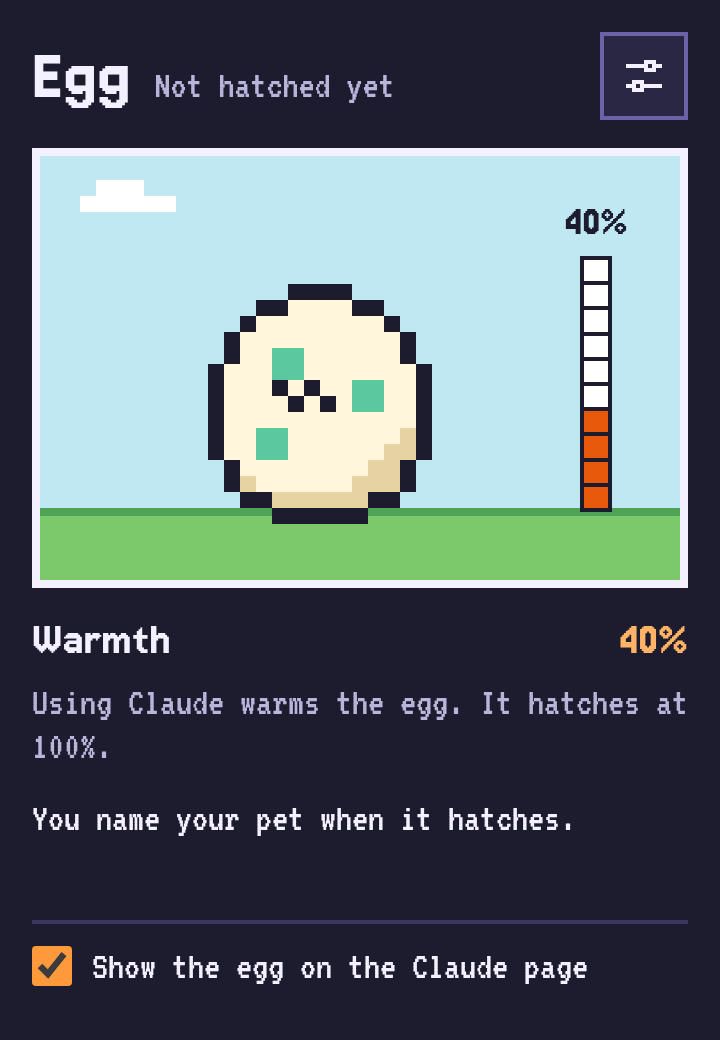
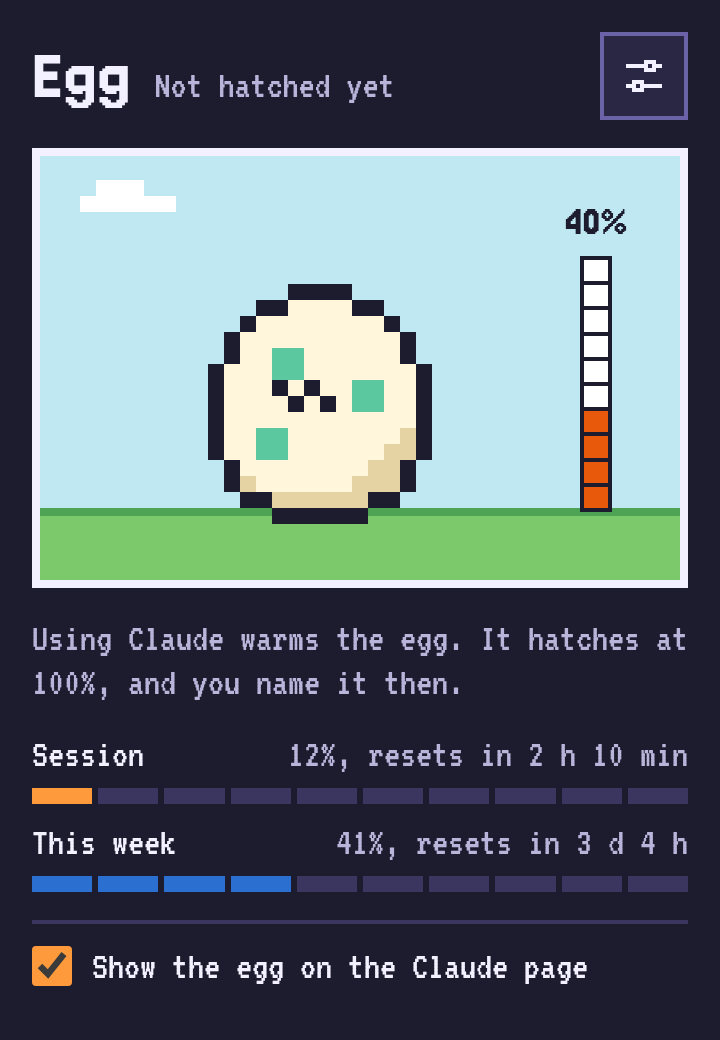
Show the session and weekly usage on the egg's popup
The warmth row repeated the thermometer, so it is now one line saying what
the thermometer measures. Below it, the session and the week each get a row
with the percent, the time until reset, and a ten-segment bar.

Changed region(s): [[0.0306, 0.5846, 0.9778, 0.8615]]

diff --git a/src/ui/PetPopup.tsx b/src/ui/PetPopup.tsx
@@ -126,7 +126,7 @@ function bodyFor(view: PetView, props: PetPopupProps, hatchFrame: HatchFrame): B
       title,
       detail,
       content: (
-        <Egg warmth={view.warmth} crack={view.crack}>
+        <Egg warmth={view.warmth} crack={view.crack} pet={pet} now={now}>
           <OverlaySwitch {...props} who="the egg" />
         </Egg>
       ),
@@ -270,16 +270,54 @@ function OverlaySwitch(props: PetPopupProps & { who: string }) {
   );
 }
 
-function Egg(props: { warmth: number; crack: EggCrack; children?: ComponentChildren }) {
-  const { warmth, crack } = props;
+/** Ten segments filled to `percent`, for the usage rows under the egg. */
+function Segments(props: { percent: number; color: string }) {
+  const filled = Math.max(0, Math.min(10, Math.round(props.percent / 10)));
+  return (
+    <div class="px-segments" aria-hidden="true" style={{ "--fill": props.color }}>
+      {Array.from({ length: 10 }, (_, index) => (
+        <i key={index} class={index < filled ? "px-on" : undefined} />
+      ))}
+    </div>
+  );
+}
+
+/** A Claude limit as the egg's popup shows it: the percent used and when it resets. */
+function UsageRow(props: { label: string; window: UsageWindow; now: Date; color: string }) {
+  const { label, window, now, color } = props;
+  const percent = Math.round(window.percent);
+  return (
+    <div class="px-usage">
+      <div class="px-row">
+        <p>{label}</p>
+        <p class="px-dim">
+          {percent}%{window.resetsAt && `, resets in ${timeLeftText(window.resetsAt, now)}`}
+        </p>
+      </div>
+      <Segments percent={percent} color={color} />
+    </div>
+  );
+}
+
+function Egg(props: {
+  warmth: number;
+  crack: EggCrack;
+  pet: PetState;
+  now: Date;
+  children?: ComponentChildren;
+}) {
+  const { warmth, crack, pet, now } = props;
   const percent = Math.round((warmth / RULES.hatchWarmth) * 100);
   const wobble = crack === "full" ? "px-wobble px-fast" : warmth > 0 ? "px-wobble" : "";
+  // The thermometer shows the percent; this line says what it measures.
   const note =
     crack === "full"
       ? "Almost there. A few more messages."
       : warmth > 0
-        ? "Using Claude warms the egg. It hatches at 100%."
-        : "Send a message to start warming the egg.";
+        ? "Using Claude warms the egg. It hatches at 100%, and you name it then."
+        : "Send a message to start warming the egg. It hatches at 100%.";
+  const session = currentWindow(pet.reading?.short, now);
+  const week = currentWindow(pet.reading?.long, now);
 
   return (
     <>
@@ -289,14 +327,16 @@ function Egg(props: { warmth: number; crack: EggCrack; children?: ComponentChild
         </div>
         <Meter percent={percent} color="var(--warmth)" label={`Egg warmth: ${percent} percent`} />
       </Scene>
+      <p class="px-dim">{note}</p>
       <div class="px-section">
-        <div class="px-row">
-          <h2>Warmth</h2>
-          <span class="px-food-number">{percent}%</span>
-        </div>
-        <p class="px-dim">{note}</p>
+        <UsageRow label="Session" window={session} now={now} color="var(--food)" />
+        <UsageRow
+          label="This week"
+          window={week}
+          now={now}
+          color={rulerColor(Math.round(week.percent))}
+        />
       </div>
-      <p>You name your pet when it hatches.</p>
       {props.children}
     </>
   );

diff --git a/src/entrypoints/artboards/main.tsx b/src/entrypoints/artboards/main.tsx
@@ -136,19 +136,19 @@ function moodItems(stage: { age: number; xp: number; week: number }): SheetItem[
 
 const BOARDS: Record<string, () => ComponentChildren> = {
   "first-run-popup": () => <Popup pet={egg(0, "not-set-up")} />,
-  "egg-popup": () => <Popup pet={egg(4)} />,
+  "egg-popup": () => <Popup pet={egg(12)} />,
   "egg-toolbar-icon": () => (
     <IconSheet
       title="Toolbar icon: egg"
       subtitle="Before hatching, the icon is the egg. The cracks show how close it is."
       items={[
         { name: "New egg", note: "Nothing eaten yet", icon: iconOf(egg(0)) },
-        { name: "Warming", note: "First crack at 40% warmth", icon: iconOf(egg(4)) },
-        { name: "About to hatch", note: "Cracked across at 90%", icon: iconOf(egg(9)) },
+        { name: "Warming", note: "First crack at 40% warmth", icon: iconOf(egg(12)) },
+        { name: "About to hatch", note: "Cracked across at 90%", icon: iconOf(egg(27)) },
       ]}
     />
   ),
-  "egg-on-page-overlay": () => <ClaudePage pet={egg(4)} />,
+  "egg-on-page-overlay": () => <ClaudePage pet={egg(12)} />,
 
   "hatching-popup": () => <Popup pet={pet({ ...STAGES.baby, xp: 0, name: null })} />,
   "hatching-toolbar-icon": () => {

diff --git a/src/ui/pet-popup.css b/src/ui/pet-popup.css
@@ -258,6 +258,27 @@
   font-weight: 400;
 }
 
+.px-usage {
+  display: flex;
+  flex-direction: column;
+  gap: 6px;
+}
+
+.px-segments {
+  display: flex;
+  gap: 3px;
+}
+
+.px-segments i {
+  flex-grow: 1;
+  height: 8px;
+  background: var(--divider);
+}
+
+.px-segments i.px-on {
+  background: var(--fill);
+}
+
 .px-cookies {
   display: flex;
   gap: 6px;

diff --git a/docs/DESIGN.md b/docs/DESIGN.md
@@ -119,7 +119,7 @@ See `artboards/*-popup.png`. Top to bottom:
 5. "This week" with the time until the weekly reset, for example "resets in 5 h 21 min".
 6. A switch to show or hide the pet on the Claude page.
 
-Variants: the first run (the egg and an "Open Claude" button, before the account is found), the egg (warmth thermometer in place of the ruler, no cookies), hatching (name field and a "Say hello" button), ran away (the note left on the grass), a birthday (for 24 hours: "Happy birthday!" or the new stage written on the grass, sparkles, and a hop; see `artboards/birthday-popup.png` and `artboards/grew-up-popup.png`), and can't reach Claude (gray scene, a reason, and an "Open Claude" button when signed out).
+Variants: the first run (the egg and an "Open Claude" button, before the account is found), the egg (warmth thermometer in place of the ruler, a line saying what it measures, and the session and weekly usage as two rows with ten-segment bars: food orange for the session, the ruler colors for the week; no cookies), hatching (name field and a "Say hello" button), ran away (the note left on the grass), a birthday (for 24 hours: "Happy birthday!" or the new stage written on the grass, sparkles, and a hop; see `artboards/birthday-popup.png` and `artboards/grew-up-popup.png`), and can't reach Claude (gray scene, a reason, and an "Open Claude" button when signed out).
 
 Keep the text short. An earlier version had a status sentence that repeated what the face already showed, and it was removed.
 
